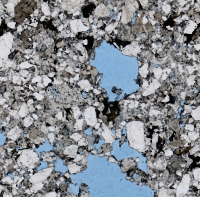
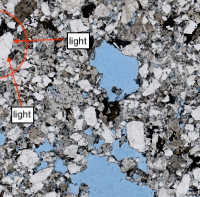
updated profile

Changed region(s): [[0.0, 0.2741, 0.18, 0.6396], [0.06, 0.1523, 0.45, 0.3046], [0.0, 0.0305, 0.12, 0.1523]]

diff --git a/portfolio.html b/portfolio.html
@@ -94,7 +94,9 @@
                             <p> For this project I <b id="p-bold">developed a novel, semi-automated approach</b> to aligning fine-grained images under different 
                                 lighting conditions. The primary challenge I faced was that the immediate color-relationships between objects in 
                                 the photos is not preserved under different light polarizations, therefore making fully-automated alignment 
-                                nearly impossible. Once image alignment was achieved and I was able to pre-process the necessary images for training
+                                nearly impossible. That being said, both plain-polarized and cross-polarized light examples are needed to
+                                differentiate mineral grains, and therefore important for building our model.
+                                Once image alignment was achieved and I was able to pre-process the necessary images for training
                                 a model, I built a CNN that would classify each pixel as one of 9 mineral grains.</p>
                         </div>   
                     </div>
